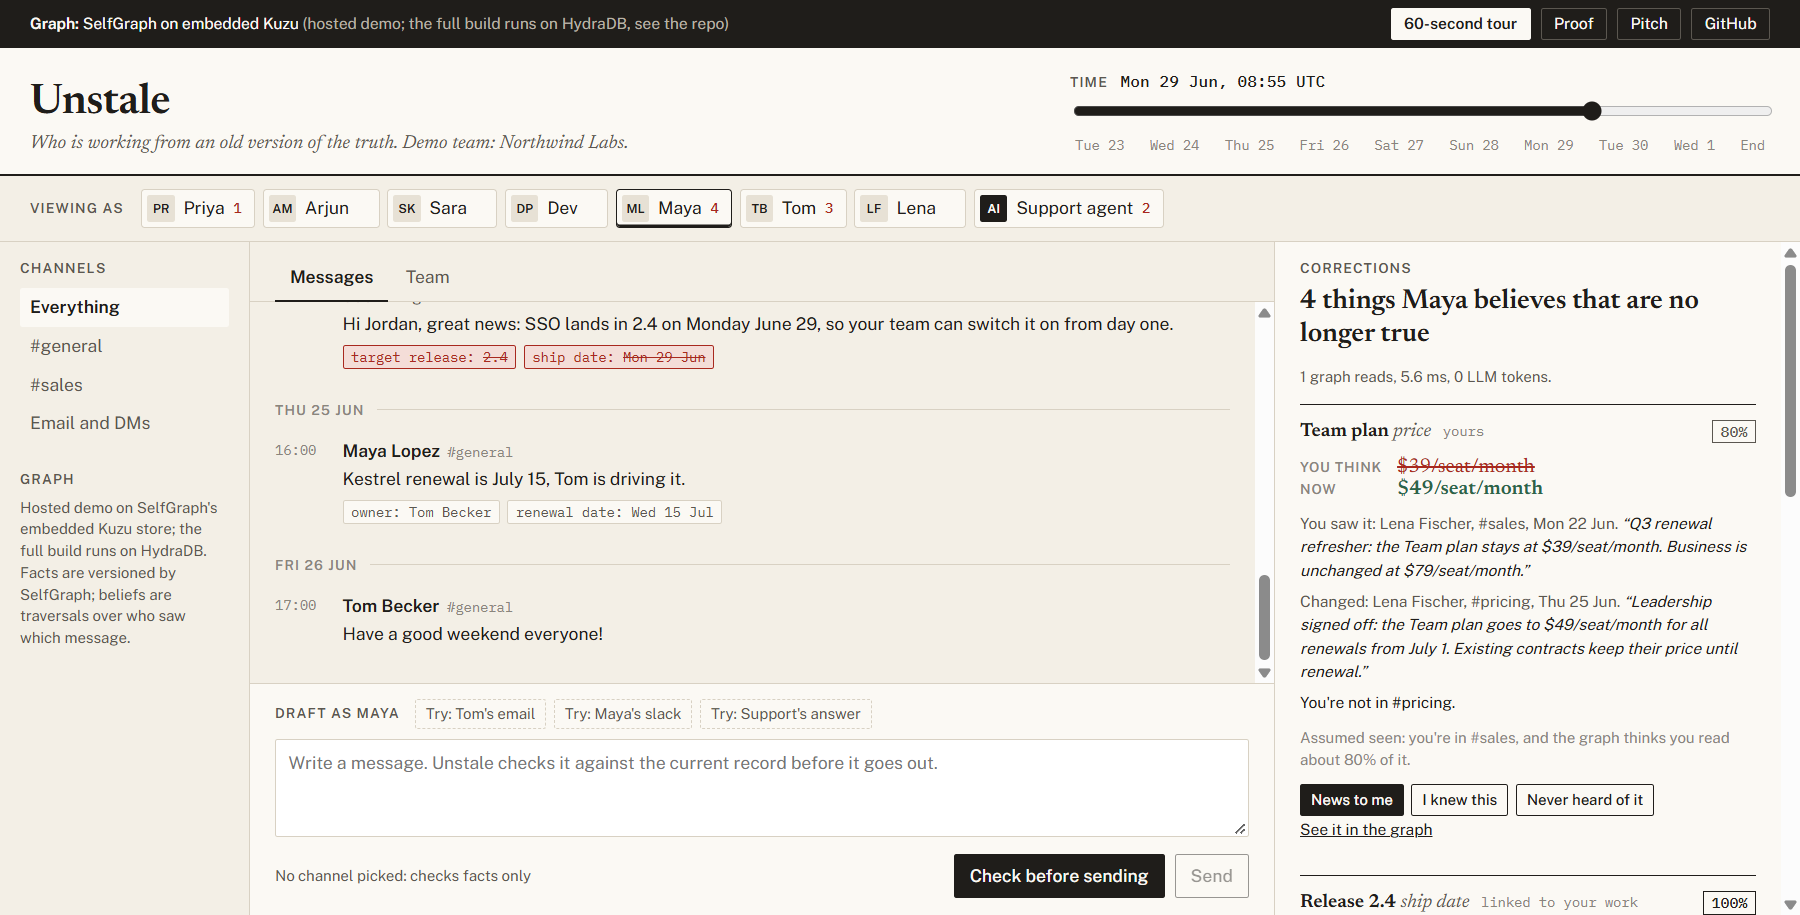
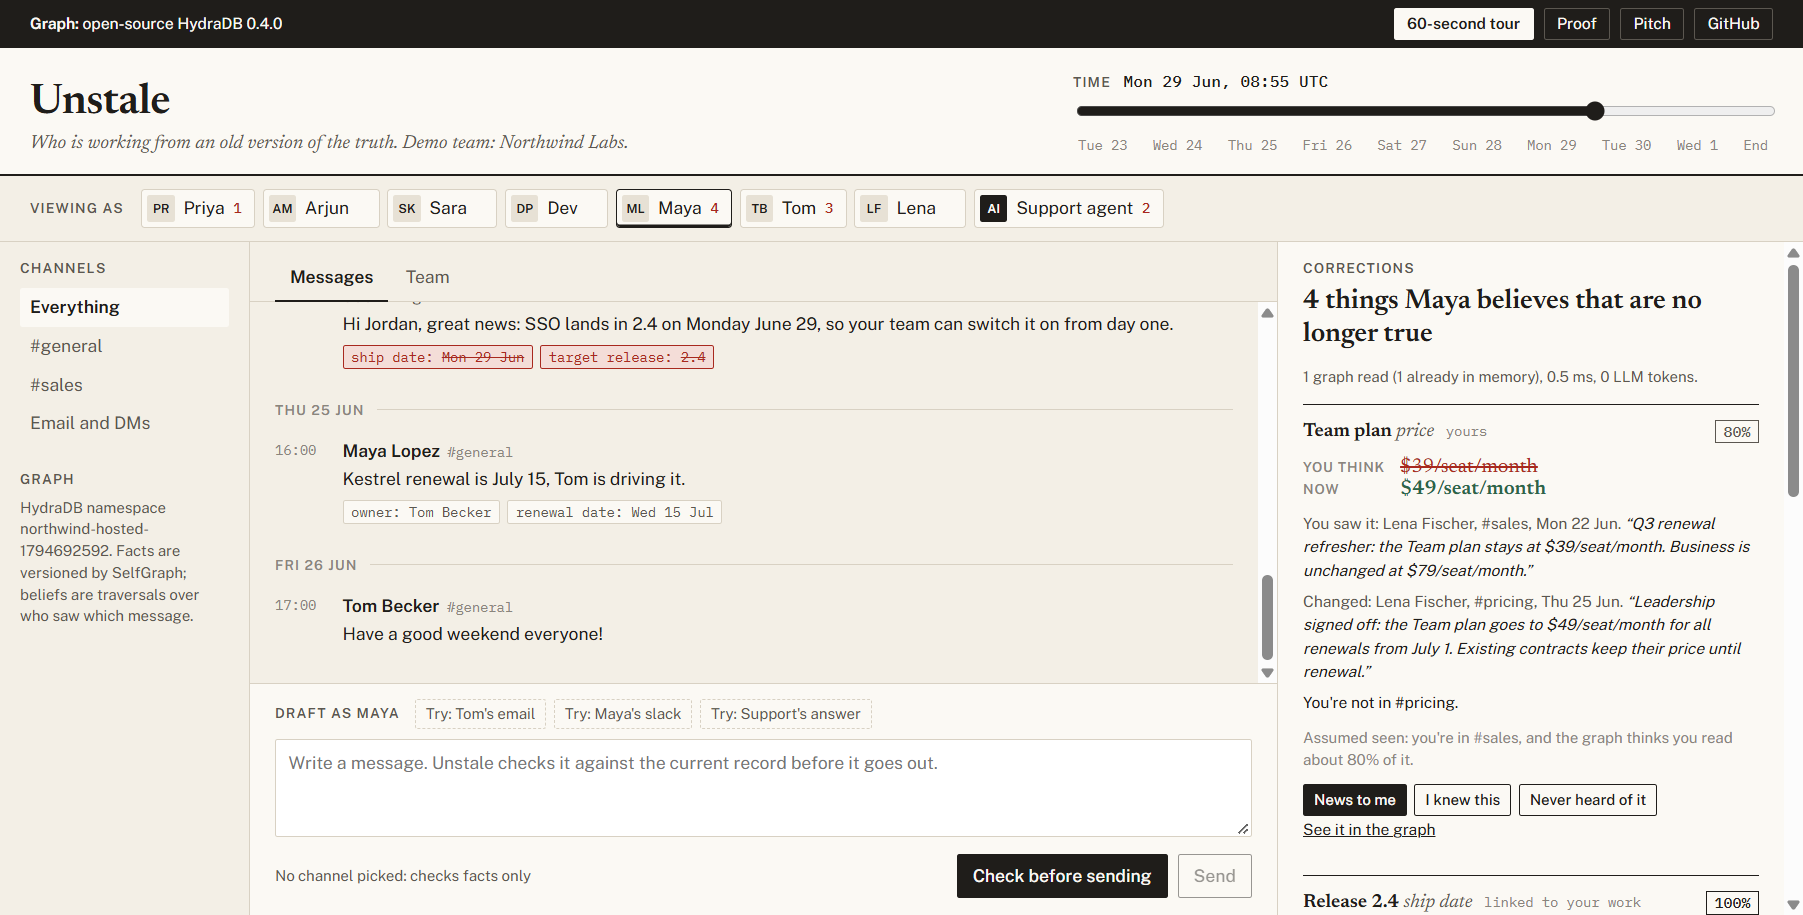
Link both live copies, clearer read counts, screenshots from the HydraDB build

diff --git a/unstale/web/app.js b/unstale/web/app.js
@@ -145,7 +145,7 @@ async function loadBrief() {
   $("corr-title").textContent = n
     ? `${n} thing${n > 1 ? "s" : ""} ${who} believe${p.kind === "agent" || n ? "s" : ""} that ${n > 1 ? "are" : "is"} no longer true`
     : `${who === "this agent" ? "This agent is" : `${who} is`} up to date`;
-  $("corr-meta").textContent = `${b.graph_queries} graph reads${b.cached_reads ? ` (+${b.cached_reads} from memory)` : ""}, ${b.ms} ms, ${b.llm_tokens} LLM tokens.`;
+  $("corr-meta").textContent = `${b.graph_queries + b.cached_reads} graph read${b.graph_queries + b.cached_reads === 1 ? "" : "s"}${b.cached_reads ? ` (${b.cached_reads} already in memory)` : ""}, ${b.ms} ms, ${b.llm_tokens} LLM tokens.`;
   if (!n) {
     $("corr-list").innerHTML = `<div class="clean">Nothing ${who === "this agent" ? "it has" : "they have"} seen about their work has changed since.</div>`;
   } else {
@@ -350,10 +350,11 @@ $("btn-copy").onclick = () => navigator.clipboard?.writeText($("agent-context").
 
 function engineBadge() {
   const hydra = S.meta.store === "hydradb";
+  const real = S.meta.real_url ? `<a href="${esc(S.meta.real_url)}" target="_blank" rel="noopener">Open the same app on real HydraDB</a>` : "see the repo";
   $("engine-badge").innerHTML = hydra
-    ? `<b>Graph:</b> open-source HydraDB, self-hosted`
-    : `<b>Graph:</b> SelfGraph on embedded Kuzu <span class="muted">(hosted demo; the full build runs on HydraDB, see the repo)</span>`;
-  $("graph-note").textContent = (hydra ? `HydraDB namespace ${S.meta.namespace}.` : "Hosted demo on SelfGraph's embedded Kuzu store; the full build runs on HydraDB.") +
+    ? `<b>Graph:</b> open-source HydraDB 0.4.0`
+    : `<b>Graph:</b> SelfGraph on embedded Kuzu <span class="muted">(instant copy; the full build runs on HydraDB: ${real})</span>`;
+  $("graph-note").textContent = (hydra ? `HydraDB namespace ${S.meta.namespace}.` : "Instant copy on SelfGraph's embedded Kuzu store; the full build runs on HydraDB.") +
     " Facts are versioned by SelfGraph; beliefs are traversals over who saw which message.";
 }
 

diff --git a/unstale/web/graph.js b/unstale/web/graph.js
@@ -105,7 +105,7 @@ function graphBlock(g, focus) {
     ${who ? `<p class="gnote">${miss && who.stale ? `<strong>${esc(who.name)}</strong> has no edge to the message that changed this fact, so the latest version they hold is <strong>${esc(fmtVal(who.believes))}</strong>. That absence is the signal.`
       : who.in_sync ? `<strong>${esc(who.name)}</strong> saw the change, so they hold the current value.` : `<strong>${esc(who.name)}</strong> has not seen anything about this fact.`}</p>` : `<p class="gnote small muted">Click a person to follow their edges.</p>`}
     <div class="gvs"><strong>On a vector store</strong> a search for this topic returns the same ${g.messages.length} messages, ranked by similarity. Nothing in them says who read which one, so it can't tell ${who ? esc(who.name) : "the people who missed it"} from the person who made the change. Measured on our labelled team: F1 0.13.</div>
-    <details class="gcy"><summary>The query behind it · ${g.graph_queries} graph reads${g.cached_reads ? ` (+${g.cached_reads} from memory)` : ""}, ${g.ms} ms on ${label}</summary><pre>${esc(g.cypher)}</pre>
+    <details class="gcy"><summary>The query behind it · ${g.graph_queries + g.cached_reads} graph reads${g.cached_reads ? ` (${g.cached_reads} already in memory)` : ""}, ${g.ms} ms on ${label}</summary><pre>${esc(g.cypher)}</pre>
       <p class="small muted">Run once per person. SAW edges are written when a message is ingested; fact versions are SelfGraph relations with <code>max_count: 1</code>, so a new value supersedes the old one and keeps it readable.</p></details>`;
 }
 

diff --git a/unstale/web/extra.css b/unstale/web/extra.css
@@ -142,3 +142,5 @@ body.tour-dlg .tour-card { left: 50%; bottom: 12px; top: auto; transform: transl
   .corrections { order: 2; border-bottom: 1px solid var(--rule); }
   .center { order: 3; }
 }
+
+.topbar .engine a { color: #f4d37a; }

diff --git a/unstale/api.py b/unstale/api.py
@@ -19,7 +19,7 @@ from fastapi.staticfiles import StaticFiles
 from pydantic import BaseModel
 
 from . import rules
-from .config import ROOT as ROOT_DIR, Settings, dataset_path
+from .config import ROOT as ROOT_DIR, Settings, dataset_path, setting
 from .engine import EXPOSURES_CYPHER, Engine, agent_context, check_draft
 from .extract import extract_message
 from .llm import USAGE, LLMError
@@ -169,7 +169,7 @@ async def warm(as_of: str) -> None:
 @app.get("/api/meta")
 async def meta() -> dict:
     d = ds()
-    return {"name": d["name"], "start": d["start"], "end": d["end"], "namespace": eng().namespace, "store": eng().settings.store, "hosted": eng().settings.hosted,
+    return {"name": d["name"], "start": d["start"], "end": d["end"], "namespace": eng().namespace, "store": eng().settings.store, "hosted": eng().settings.hosted, "real_url": setting("UNSTALE_REAL_URL"),
             "people": d["people"], "channels": d["channels"], "subjects": d["subjects"],
             "attributes": {k: v.get("label", k) for k, v in d["attributes"].items()},
             "checkpoints": checkpoints(d), "drafts": d["drafts"],

diff --git a/api/index.py b/api/index.py
@@ -14,5 +14,6 @@ sys.path.insert(0, str(Path(__file__).resolve().parent.parent))
 os.environ.setdefault("UNSTALE_STORE", "kuzu")
 os.environ.setdefault("UNSTALE_KUZU_PATH", "/tmp/unstale.kuzu")
 os.environ.setdefault("UNSTALE_HOSTED", "1")
+os.environ.setdefault("UNSTALE_REAL_URL", "https://unstale.onrender.com")
 
 from unstale.api import app  # noqa: E402,F401
